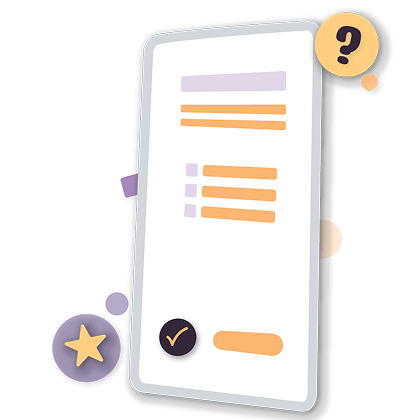
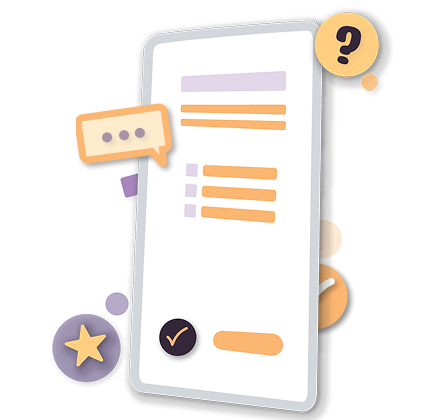
refactor: responsive main page image

diff --git a/src/app/shared/components/main-page/main-page.scss b/src/app/shared/components/main-page/main-page.scss
@@ -50,6 +50,10 @@
       max-width: 700px;
     }
 
+    &--image {
+      display: none;
+    }
+
     &--images-container {
       grid-area: image;
       width: 100%;
@@ -60,28 +64,38 @@
       position: relative;
 
       &:hover {
+        .main-page__aot--image-main {
+          transform: scale(0.8);
+          transition: transform 1s ease-out;
+        }
+
         .main-page__aot--image-check {
           transform: scale(1.2);
           right: -60px;
+          transition: right 1.1s ease-out;
         }
 
         .main-page__aot--image-question {
           right: -50px;
+          transition: right 1.4s ease-out;
         }
 
         .main-page__aot--image-star {
           transform: scale(1.6);
+          transition: transform 1.6s ease-out;
         }
 
         .main-page__aot--image-speech-bubble {
           transform: scale(1.1);
           top: 100px;
+          transition: top 1.7s ease-out;
         }
       }
     }
 
     &--image-main {
       z-index: 0;
+      transition: transform 1s ease-out;
     }
     &--image-check {
       bottom: 50px;
@@ -396,6 +410,19 @@
 
     &--title {
       line-height: 64px;
+    }
+
+    &--images-container {
+      display: none;
+    }
+
+    &--image {
+      display: inline-block;
+      max-width: 100%;
+
+      grid-area: image;
+
+      justify-self: center;
     }
 
     & app-main-button {

diff --git a/src/app/shared/components/main-page/main-page.html b/src/app/shared/components/main-page/main-page.html
@@ -14,6 +14,7 @@
       (clickFunction)="openCreatingDialog()"
       iconName="plus"
     ></app-main-button>
+    <img class="main-page__aot--image" src="images/main-page-image.png" alt="Main page image" />
     <div class="main-page__aot--images-container">
       <img
         class="main-page__aot--image-main"
